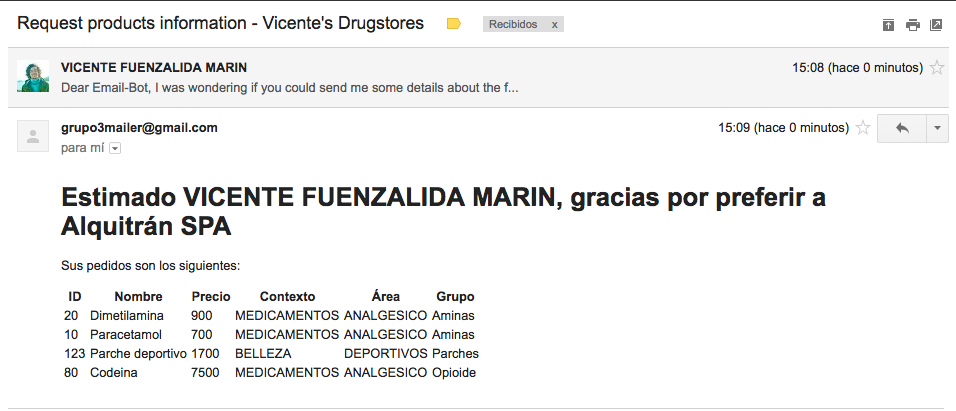
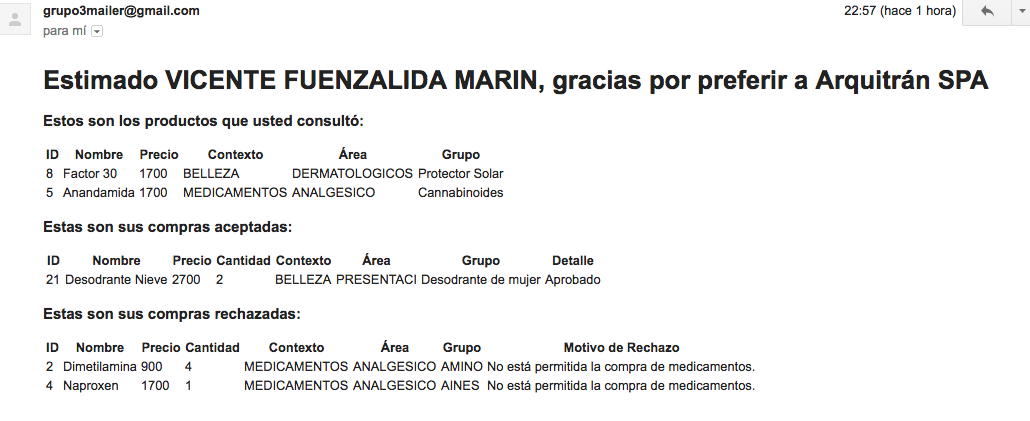
Changed example images

diff --git a/README.md b/README.md
@@ -85,7 +85,7 @@ To use the already deployed service, simply send an email to the address  `grupo
 **To query products information:**
 
 ```
-consultas:
+consultar:
 - producto X
 - producto Y
 - producto Z
@@ -115,6 +115,21 @@ Some of the keywords admit modifications, such as:
 
 * It is possible to either buy (*comprar*), query (*consultar*), or both, but the keywords mentioned before must be present to differentiate this actions.
 
+#### For example, this is valid:
+
+```
+consultar:
+- producto X
+- producto Y
+- producto Z
+
+comprar: 
+- producto X: a unidad
+- producto Y: b unidades
+- producto Z: c unidades
+```
+
+
 The **subject** isn't restricted to anything, and any other text can be added as details in the **body structure**, for example:
 
 ### Example email request
@@ -127,7 +142,8 @@ As the example shows, any other text will be ignored by the Email-Bot, so the it
 
 ![alt text](./resources/sample-response.png "Email Response Example")
 
-A common response will include a message, followed by a table detailing the requested products (`id`, `name`, `price` and `category data`).
+A common response will contain the result of the purchase transaction if it exists (accepted and rejected products), and the information about the queried products.
+
 
 
 ## Authors
